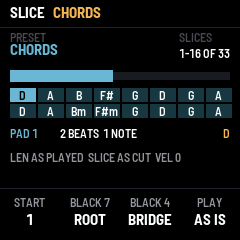
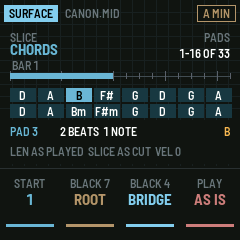
SURFACE in the Earth Science look
Graph paper, the song as a ruler (a tick a bar), the file in Water, the
key in Earth, the mode in Air; the knobs' values each in its element (K1
Water, K2 Earth, K3 Air, K4 Fire). Square pads and plain labels kept.

Claude-Session: https://claude.ai/code/session_011auXBbJuCRdHVG1fENKT8m

diff --git a/app/screens.c b/app/screens.c
@@ -332,37 +332,52 @@ static void draw_find(void)
     cv_blit(0, 120);
 }
 
-/* ORCHID: the mode in its own colour; how the file is cut and where; the song with the 16 pads' stretch of it; the
- * 16 pads (a chord's name on each with CHORDS); K1-K4 */
-static const uint16_t ORCHID_C = RGB(0x6B, 0xB6, 0xD6), ORCHID_DIM = RGB(26, 56, 70);   /* SURFACE's Water */
+/* SURFACE (ORCHID in the code): the Earth Science look. Graph paper; the file as Water (the slices, the ruler of the
+ * song, the pads); the knobs in their elements: K1 Water, K2 Earth (bass), K3 Air (above), K4 Fire (playing) */
+static const uint16_t ORCHID_C = RGB(0x6B, 0xB6, 0xD6), ORCHID_DIM = RGB(26, 56, 70);   /* Water */
+static const uint16_t LAB_BG = RGB(18, 20, 22), LAB_GRID = RGB(30, 34, 38), LAB_LABEL = RGB(110, 118, 124);
+static void lab_paper(void)              /* graph paper, every 12 px, on the band begun */
+{
+    int32_t k;
+    for (k = 12; k < 240; k += 12)
+        cv_rect(k, 0, 1, 120, LAB_GRID);
+    for (k = 12; k < 120; k += 12)
+        cv_rect(0, k, 240, 1, LAB_GRID);
+}
 static void draw_orchid(void)
 {
     static const char *const LBL[4] = {"START", "BLACK 7", "BLACK 4", "PLAY"};
-    char t[32], v[4][12];
+    const uint16_t EL[4] = {WATER_C, EARTH_C, AIR_C, FIRE_C};
+    char t[40], v[4][12];
     uint32_t i, first = set.om_slice == OM_EQUAL ? 0u : om_first(), len = song_len ? song_len : 1u;
     int32_t x;
-    cv_begin(240, 120, C_BLACK);
-    if (plat_ms() < ui.msg_until)
+    cv_begin(240, 120, LAB_BG);
+    lab_paper();
+    if (plat_ms() < ui.msg_until) {
+        cv_rect(0, 0, 240, 27, LAB_BG);
         top_bar(0, 0, 0);
-    else {
-        top_bar(0, 0, 0);
-        cv_rect(4, 5, text_w(&FONT_XS, "SURFACE") + 10, 17, AIR_C);   /* SURFACE: Air */
+    } else {
+        cv_rect(4, 5, text_w(&FONT_XS, "SURFACE") + 10, 17, AIR_C);   /* the mode: Air */
         x = cv_text(9, 6, &FONT_XS, "SURFACE", C_BLACK);
         if (cur_file >= 0)
-            cv_text(x + 10, 6, &FONT_XS, files[cur_file].name, C_GRAY);
-        key_text(t);
-        cv_rect(226 - text_w(&FONT_XS, t), 5, text_w(&FONT_XS, t) + 10, 17, AMBER);
-        cv_text(231 - text_w(&FONT_XS, t), 6, &FONT_XS, t, C_BLACK);
+            cv_text(x + 12, 6, &FONT_XS, files[cur_file].name, LAB_LABEL);
+        key_text(t);                     /* the key: Earth, outlined */
+        {
+            int32_t w = text_w(&FONT_XS, t);
+            cv_rect(224 - w, 5, w + 12, 17, EARTH_C);
+            cv_rect(225 - w, 6, w + 10, 15, LAB_BG);
+            cv_text(230 - w, 6, &FONT_XS, t, EARTH_C);
+        }
     }
     if (!song_n) {
-        cv_text(10, 34, &FONT_B, "NO MIDI FILE", ORCHID_C);
-        cv_text(10, 64, &FONT_XS, "THE PADS PLAY THE KEY'S CHORDS.", C_WHITE);
-        cv_text(10, 80, &FONT_XS, "PUT .MID FILES ON THE DRIVE: TAP SYS.", C_GRAY);
+        cv_text(10, 36, &FONT_B, "NO MIDI FILE", WATER_C);
+        cv_text(10, 66, &FONT_XS, "THE PADS PLAY THE KEY'S CHORDS.", C_WHITE);
+        cv_text(10, 82, &FONT_XS, "PUT .MID FILES ON THE DRIVE: TAP SYS.", LAB_LABEL);
         cv_blit(0, 0);
     } else {
-        cv_text(10, 30, &FONT_XS, "PRESET", C_DIM);
-        cv_text(10, 42, &FONT_B, OM_NAME[set.om_slice], ORCHID_C);
-        if (nsl) {                       /* "5-20 OF 48" */
+        cv_text(10, 30, &FONT_XS, "SLICE", LAB_LABEL);
+        cv_text(10, 42, &FONT_B, OM_NAME[set.om_slice], WATER_C);
+        if (nsl) {                       /* "1-16 OF 33" */
             uint32_t last = first + 16u < nsl ? first + 16u : nsl;
             str_set(t, "", sizeof t);
             num_text((int32_t)first + 1, t, 0);
@@ -370,50 +385,66 @@ static void draw_orchid(void)
             num_text((int32_t)last, t + cs_len(t), 0);
             text_cat(t, " OF ");
             num_text((int32_t)nsl, t + cs_len(t), 0);
-            cv_text(230 - text_w(&FONT_XS, t), 30, &FONT_XS, "SLICES", C_DIM);
+            cv_text(230 - text_w(&FONT_XS, "PADS"), 30, &FONT_XS, "PADS", LAB_LABEL);
             cv_text(230 - text_w(&FONT_XS, t), 46, &FONT_XS, t, C_WHITE);
         }
-        /* the song, the pads' stretch of it */
-        cv_rect(10, 72, 220, 8, RGB(30, 30, 36));
-        if (nsl) {
-            uint32_t last = (first + 16u < nsl ? first + 16u : nsl) - 1u;
-            int32_t a = 10 + (int32_t)(sl_s[first] * 220u / len), b = 10 + (int32_t)(sl_e[last] * 220u / len);
-            cv_rect(a, 70, b - a > 2 ? b - a : 2, 12, ORCHID_C);
+        /* the song as a ruler: a tick a bar (longer every 4), the pads' stretch in Water */
+        {
+            uint32_t bar = PPQ * (song_bpb ? song_bpb : 4u), nb = (len + bar - 1u) / bar, b, every = 1;
+            while (nb / every > 56u)
+                every *= 2u;
+            cv_rect(10, 76, 220, 1, RGB(70, 78, 84));
+            for (b = 0; b <= nb; b += every) {
+                int32_t tx = 10 + (int32_t)(b * bar * 220u / len), big = b % (4u * every) == 0u;
+                if (tx > 230)
+                    tx = 230;
+                cv_rect(tx, big ? 71 : 73, 1, big ? 10 : 6, RGB(90, 98, 104));
+            }
+            if (nsl) {
+                uint32_t last = (first + 16u < nsl ? first + 16u : nsl) - 1u;
+                int32_t a = 10 + (int32_t)(sl_s[first] * 220u / len), z = 10 + (int32_t)(sl_e[last] * 220u / len);
+                cv_rect(a, 73, z - a > 2 ? z - a : 2, 6, WATER_C);
+                str_set(t, "BAR ", sizeof t);   /* where the stretch starts */
+                num_text((int32_t)(sl_s[first] / bar) + 1, t + 4, 0);
+                cv_text(a + 2 < 180 ? a + 2 : 180, 58, &FONT_XS, t, LAB_LABEL);
+            }
         }
-        /* the 16 pads */
+        /* the 16 pads, as before, in Water */
         for (i = 0; i < 16u; i++) {
             const pad_t *p = &pads[i];
             int32_t bx = 10 + (int32_t)(i % 8u) * 28, by = 88 + (int32_t)(i / 8u) * 16;
             int lit = (ui.keys >> WK[i] & 1u) || pl[i].on || cp[i].on;
-            uint16_t bg = p->type == PAD_EMPTY ? RGB(20, 20, 24) : lit ? ORCHID_C : ORCHID_DIM;
+            uint16_t bg = p->type == PAD_EMPTY ? RGB(26, 29, 32) : lit ? WATER_C : ORCHID_DIM;
             cv_rect(bx, by, 26, 14, bg);
             if (p->title[0] && set.om_slice == OM_CHORDS)
                 cv_text(bx + (26 - text_w(&FONT_XS, p->title)) / 2, by, &FONT_XS, p->title, lit ? C_BLACK : C_WHITE);
             else {
                 char n[4];
                 num_text((int32_t)i + 1, n, 0);
-                cv_text(bx + (26 - text_w(&FONT_XS, n)) / 2, by, &FONT_XS, n, lit ? C_BLACK : C_GRAY);
+                cv_text(bx + (26 - text_w(&FONT_XS, n)) / 2, by, &FONT_XS, n, lit ? C_BLACK : LAB_LABEL);
             }
         }
         cv_blit(0, 0);
     }
 
-    cv_begin(240, 120, C_BLACK);
+    cv_begin(240, 120, LAB_BG);
+    lab_paper();
+    cv_rect(0, 0, 240, 44, LAB_BG);      /* the readout lines on a clear strip */
     if (ui.pad >= 0 && pads[ui.pad].type == PAD_PHRASE && song_bpb) {   /* the pad played last */
         const pad_t *p = &pads[ui.pad];
         str_set(t, "PAD ", sizeof t);
         num_text(ui.pad + 1, t + 4, 0);
-        cv_text(10, 6, &FONT_XS, t, ORCHID_C);
+        cv_text(10, 4, &FONT_XS, t, WATER_C);
         fmt_len(pad_end(p) - p->ts, v[0]);
         str_set(t, v[0], sizeof t);
         text_cat(t, "  ");
         num_text((int32_t)p->pn, t + cs_len(t), 0);
         text_cat(t, p->pn == 1u ? " NOTE" : " NOTES");
-        cv_text(60, 6, &FONT_XS, t, C_WHITE);
+        cv_text(60, 4, &FONT_XS, t, C_WHITE);
         if (p->title[0])
-            cv_text(230 - text_w(&FONT_XS, p->title), 6, &FONT_XS, p->title, AMBER);
+            cv_text(230 - text_w(&FONT_XS, p->title), 4, &FONT_XS, p->title, AMBER);
     } else
-        cv_text(10, 6, &FONT_XS, "HOLD HOME: CORE", C_DIM);
+        cv_text(10, 4, &FONT_XS, "HOLD HOME: CORE", LAB_LABEL);
     {                                    /* ALGORITHM's three: the notes' length, the slices', the velocity curve */
         static const char *const SL[5] = {"1/4", "1/2", "AS CUT", "X2", "X4"};
         char c[6];
@@ -424,7 +455,7 @@ static void draw_orchid(void)
         text_cat(t, "  VEL ");
         num_text(set.om_vcurve, c, 1);
         text_cat(t, set.om_vcurve ? c : "0");
-        cv_text(10, 30, &FONT_XS, t, C_GRAY);
+        cv_text(10, 24, &FONT_XS, t, LAB_LABEL);
     }
     if (set.om_slice == OM_EQUAL || !nsl)
         str_set(v[0], "-", sizeof v[0]);
@@ -435,6 +466,13 @@ static void draw_orchid(void)
     str_set(v[1], MODE_NAME[set.mode % MODE_N], sizeof v[1]);
     str_set(v[2], FK_MODE[set.om_f4 % FK_N], sizeof v[2]);
     str_set(v[3], OP_NAME[set.om_play % OP_N], sizeof v[3]);
-    bottom_bar(68, LBL, v);
+    cv_rect(0, 46, 240, 74, LAB_BG);     /* the knobs: each value in its element, a bar of it under */
+    cv_rect(0, 48, 240, 1, RGB(42, 48, 53));
+    for (i = 0; i < 4u; i++) {
+        int32_t cx = (int32_t)i * 60;
+        cv_text(cx + (60 - text_w(&FONT_XS, LBL[i])) / 2, 56, &FONT_XS, LBL[i], LAB_LABEL);
+        cv_text(cx + (60 - text_w(&FONT_B, v[i])) / 2, 72, &FONT_B, v[i], EL[i]);
+        cv_rect(cx + 6, 104, 48, 3, EL[i]);
+    }
     cv_blit(0, 120);
 }
